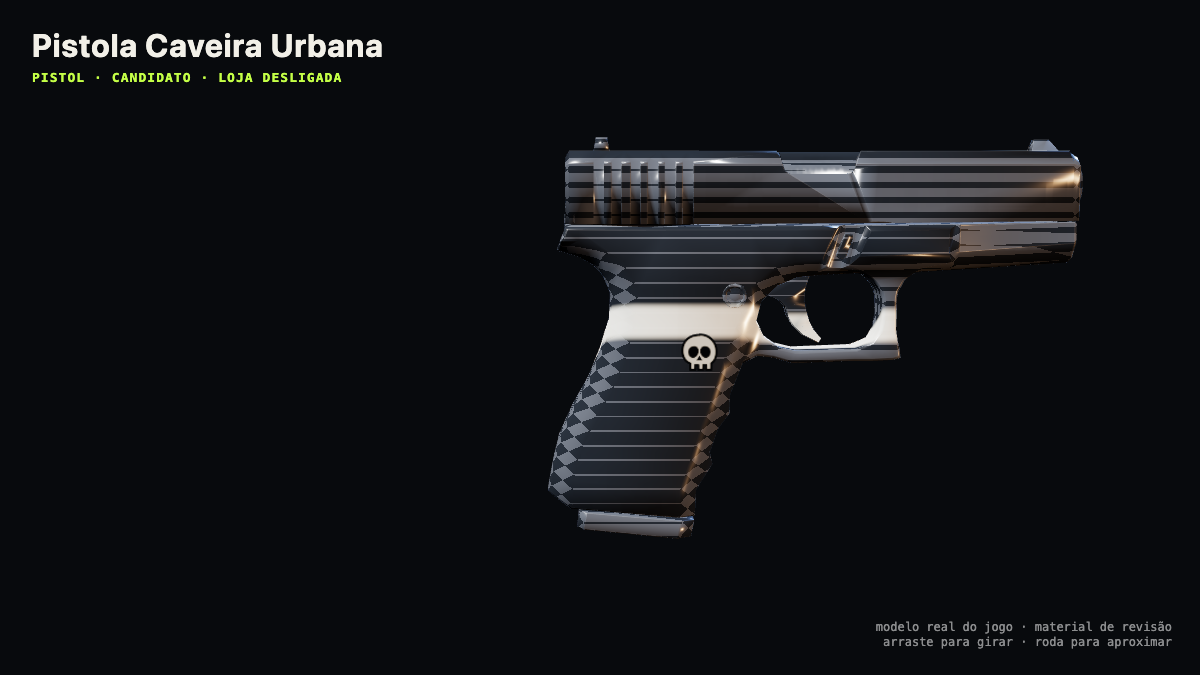
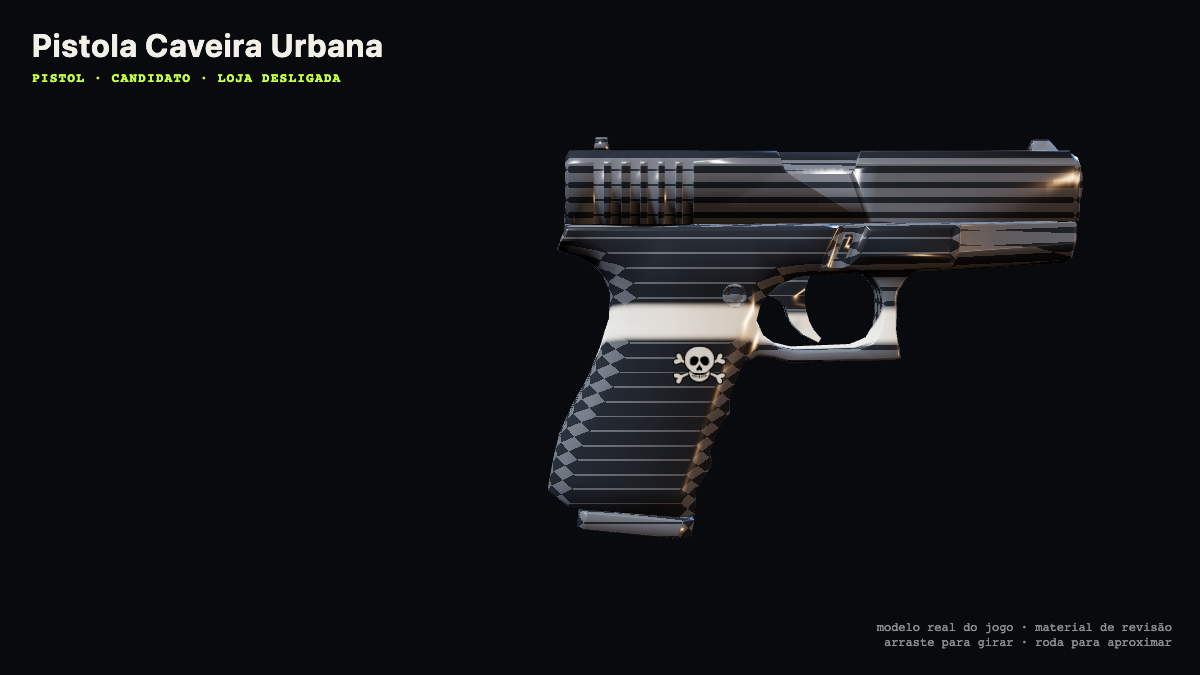
fix(cosmetics): align Caveira, Liberdade, and MAGA packs
Agent: GLM

Commit-grande: recaptura armas, luvas e posters dos três packs corrigidos

diff --git a/public/js/data/weapon-skin-definitions.js b/public/js/data/weapon-skin-definitions.js
@@ -35,10 +35,10 @@ const storeSkin = ({
 });
 
 const PACK_WEAPON_THEMES = Object.freeze([
-  { id: 'caveira-urbana', name: 'Caveira Urbana', theme: 'pack-caveira', color: '#d8d2c2', description: 'Carbono preto, osso marfim e caveira original.', markAsset: '/textures/weapon-skins/project-marks/caveira-urbana.svg' },
+  { id: 'caveira-urbana', name: 'Caveira Urbana', theme: 'pack-caveira', color: '#d8d2c2', description: 'Carbono preto e osso marfim com caveira e ossos cruzados.', markAsset: '/textures/weapon-skins/project-marks/caveira-urbana.svg', markLayouts: { ak: { y: 0.085, z: -0.050, height: 0.075, lift: 0.004 }, pistol: { y: -0.045, z: -0.015, height: 0.085 } } },
   { id: 'brasil-neon', name: 'Brasil Neon', theme: 'pack-brasil-neon', color: '#00d65c', description: 'Verde, amarelo e azul elétricos de alta leitura.' },
-  { id: 'liberdade-1776', name: 'Liberdade 1776', theme: 'pack-liberdade', color: '#b31942', description: 'Vermelho, branco e azul em faixas de aço.' },
-  { id: 'maga-47', name: 'MAGA 47', theme: 'pack-maga', color: '#d20a2e', description: 'Bandeira americana contida no corpo da arma sobre vermelho de campanha e aço preto.', markAsset: '/textures/weapon-skins/project-marks/usa-bandeira-grande.svg', markLayouts: { ak: { y: 0.095, z: -0.040, height: 0.060, lift: 0.004 }, pistol: { y: -0.040, z: -0.012, height: 0.070 } } },
+  { id: 'liberdade-1776', name: 'Liberdade 1776', theme: 'pack-liberdade', color: '#0a3161', description: 'Bandeira americana em vermelho, branco e azul sobre aço.', markAsset: '/textures/weapon-skins/project-marks/usa-bandeira-grande.svg', markLayouts: { ak: { y: 0.095, z: -0.040, height: 0.060, lift: 0.004 }, pistol: { y: -0.040, z: -0.012, height: 0.070 } } },
+  { id: 'maga-47', name: 'MAGA 47', theme: 'pack-maga', color: '#d20a2e', description: 'Vermelho de campanha com MAGA grande no cano e 47 no punho.', slogan: 'MAGA', markAsset: '/textures/weapon-skins/project-marks/maga-47.svg', markLayouts: { ak: { y: -0.015, z: -0.080, height: 0.034, lift: 0.004 }, pistol: { y: -0.095, z: -0.015, height: 0.085 } }, sloganLayouts: { ak: { y: 0.105, z: 0.220, height: 0.075, lift: 0.004 }, pistol: { y: 0.240, z: 0.080, height: 0.075 } }, sloganAspect: 4 },
   { id: 'emo-xadrez', name: 'Emo Xadrez', theme: 'pack-emo', color: '#f02cb8', description: 'Xadrez preto e magenta com uma caveira anatômica realista em traço de gravura.', markAsset: '/textures/weapon-skins/project-marks/emo-caveira-gravura.webp', markSourceUrl: 'https://commons.wikimedia.org/wiki/File:Holden%27s_human_osteology_(1899)_-_Plt18_Fig01.png', rightsStatus: 'public-domain', designOrigin: 'public-domain-adaptation', inspiration: 'adaptação monocromática do crânio anatômico de Luther Holden, publicado em 1887 e em domínio público', markLayouts: { ak: { y: 0.090, z: -0.055, height: 0.100, lift: 0.004 }, pistol: { y: -0.018, z: -0.015, height: 0.110 } } },
 ]);
 const PACK_WEAPON_SKINS = Object.freeze(Object.fromEntries(PACK_WEAPON_THEMES.flatMap((pack) =>
@@ -52,11 +52,14 @@ const PACK_WEAPON_SKINS = Object.freeze(Object.fromEntries(PACK_WEAPON_THEMES.fl
       theme: pack.theme,
       color: pack.color,
       description: pack.description,
+      slogan: pack.slogan || null,
       markAsset: pack.markAsset || null,
       markSourceUrl: pack.markSourceUrl || null,
       rightsStatus: pack.rightsStatus || 'original-safe',
       designOrigin: pack.designOrigin || 'project-owned',
       markLayout: pack.markLayouts?.[weapon] || null,
+      sloganLayout: pack.sloganLayouts?.[weapon] || null,
+      sloganAspect: pack.sloganAspect || null,
       price: 0,
       inspiration: pack.inspiration || 'conjunto original coordenado do projeto, sem marca de produto ou reprodução de item comercial',
       series: 'PACKS DA TRETA',

diff --git a/public/js/weapon-skins.js b/public/js/weapon-skins.js
@@ -175,19 +175,20 @@ const THEME_FRAGMENT = Object.freeze({
     diffuseColor.rgb = brasilNeonColor;
   `,
   'pack-liberdade': `
-    float liberdadeBand = fract((vWeaponSkinLocal.y + 0.40) * 7.0);
-    vec3 liberdadeStripe = liberdadeBand < 0.50 ? vec3(0.70, 0.018, 0.10) : vec3(0.94, 0.94, 0.91);
-    float liberdadeBlue = step(0.06, vWeaponSkinLocal.y) * step(vWeaponSkinLocal.z, 0.06);
-    diffuseColor.rgb = mix(liberdadeStripe, vec3(0.02, 0.12, 0.36), liberdadeBlue);
+    float liberdadeStripe = step(0.50, fract((vWeaponSkinLocal.y + 0.48) * 7.0));
+    vec3 liberdadeFlag = mix(vec3(0.70, 0.018, 0.10), vec3(0.96, 0.95, 0.91), liberdadeStripe);
+    float liberdadeCanton = step(0.015, vWeaponSkinLocal.y) * step(vWeaponSkinLocal.z, 0.08);
+    vec2 liberdadeStarCell = fract(vec2(vWeaponSkinLocal.z * 22.0, vWeaponSkinLocal.y * 24.0)) - 0.5;
+    float liberdadeStar = 1.0 - smoothstep(0.08, 0.16, length(liberdadeStarCell));
+    vec3 liberdadeBlue = mix(vec3(0.02, 0.08, 0.27), vec3(0.98), liberdadeStar);
+    diffuseColor.rgb = mix(liberdadeFlag, liberdadeBlue, liberdadeCanton);
   `,
   'pack-maga': `
-    float magaStripe = step(0.50, fract((vWeaponSkinLocal.y + 0.48) * 7.0));
-    vec3 magaFlag = mix(vec3(0.70, 0.018, 0.10), vec3(0.96, 0.95, 0.91), magaStripe);
-    float magaCanton = step(0.015, vWeaponSkinLocal.y) * step(vWeaponSkinLocal.z, 0.08);
-    vec2 magaStarCell = fract(vec2(vWeaponSkinLocal.z * 22.0, vWeaponSkinLocal.y * 24.0)) - 0.5;
-    float magaStar = 1.0 - smoothstep(0.08, 0.16, length(magaStarCell));
-    vec3 magaBlue = mix(vec3(0.02, 0.08, 0.27), vec3(0.98), magaStar);
-    diffuseColor.rgb = mix(magaFlag, magaBlue, magaCanton);
+    float magaGrain = 0.5 + 0.5 * sin(vWeaponSkinLocal.z * 47.0 + vWeaponSkinLocal.y * 19.0);
+    float magaPanel = smoothstep(0.34, 0.82, magaGrain);
+    vec3 magaRed = mix(vec3(0.34, 0.004, 0.012), vec3(0.82, 0.012, 0.028), magaPanel);
+    float magaEdge = smoothstep(0.10, 0.34, abs(vWeaponSkinLocal.y + 0.02));
+    diffuseColor.rgb = mix(magaRed, vec3(0.58, 0.006, 0.018), magaEdge * 0.28);
   `,
   'pack-emo': `
     vec2 emoCell = floor(vec2(vWeaponSkinLocal.z, vWeaponSkinLocal.y) * vec2(15.0, 15.0));
@@ -240,6 +241,7 @@ const SLOGAN_STYLE = Object.freeze({
   'brasil-22': Object.freeze({ fill: '#ffe13b', stroke: '#082c70' }),
   'brasil-cotidiano': Object.freeze({ fill: '#f5f6ec', stroke: '#0b4f92' }),
   tropicalente: Object.freeze({ fill: '#ffd94a', stroke: '#006f66' }),
+  'pack-maga': Object.freeze({ fill: '#fff4e8', stroke: '#4d000b' }),
 });
 
 const markTextures = new Map();

diff --git a/public/js/data/pack-definitions.js b/public/js/data/pack-definitions.js
@@ -23,7 +23,7 @@ export const TRETA_PACKS = Object.freeze([
     id: 'pack-caveira-urbana',
     name: 'Pack Caveira Urbana',
     color: '#d8d2c2',
-    description: 'Carbono preto e osso marfim: AK, pistola, luvas com caveira e faca coordenada.',
+    description: 'Carbono preto e osso marfim com a caveira e os ossos cruzados da referência.',
     ak: 'pack-caveira-urbana-ak',
     pistol: 'pack-caveira-urbana-pistol',
     glove: 'pack-caveira-gloves',
@@ -42,8 +42,8 @@ export const TRETA_PACKS = Object.freeze([
   pack({
     id: 'pack-liberdade-1776',
     name: 'Pack Liberdade 1776',
-    color: '#b31942',
-    description: 'Vermelho, branco e azul em faixas de aço para as quatro peças do conjunto.',
+    color: '#0a3161',
+    description: 'Bandeira americana em vermelho, branco e azul para as quatro peças do conjunto.',
     ak: 'pack-liberdade-1776-ak',
     pistol: 'pack-liberdade-1776-pistol',
     glove: 'pack-liberdade-gloves',
@@ -53,7 +53,7 @@ export const TRETA_PACKS = Object.freeze([
     id: 'pack-maga-47',
     name: 'Pack MAGA 47',
     color: '#d20a2e',
-    description: 'Bandeira americana contida no corpo da arma sobre vermelho de campanha em AK, pistola, luvas e faca.',
+    description: 'Vermelho de campanha com MAGA grande no cano e 47 no punho da arma.',
     ak: 'pack-maga-47-ak',
     pistol: 'pack-maga-47-pistol',
     glove: 'pack-maga-gloves',

diff --git a/public/js/data/glove-skin-definitions.js b/public/js/data/glove-skin-definitions.js
@@ -155,21 +155,21 @@ export const GLOVE_SKINS = Object.freeze({
   'pack-liberdade-gloves': gloveSkin({
     id: 'pack-liberdade-gloves',
     name: 'Luvas Liberdade 1776',
-    glove: '#b31942',
-    sleeve: '#0a3161',
+    glove: '#c8102e',
+    sleeve: '#580013',
     accent: '#ffffff',
-    motif: 'usa',
-    description: 'Faixas e estrelas em vermelho, branco e azul.',
+    motif: 'maga-flag',
+    description: 'Bandeira americana ampla em vermelho, branco e azul sobre cada mão.',
     storeEnabled: false,
   }),
   'pack-maga-gloves': gloveSkin({
     id: 'pack-maga-gloves',
     name: 'Luvas MAGA 47',
     glove: '#c8102e',
-    sleeve: '#580013',
+    sleeve: '#740019',
     accent: '#ffffff',
-    motif: 'maga-flag',
-    description: 'Vermelho intenso com uma bandeira americana grande sobre cada mão.',
+    motif: 'maga',
+    description: 'Vermelho de campanha com o número 47 branco sobre cada mão.',
     storeEnabled: false,
   }),
   'pack-emo-gloves': gloveSkin({

diff --git a/CHANGELOG.md b/CHANGELOG.md
@@ -29,7 +29,7 @@
 - A fábrica de wearables registra o boné procedural versionado e perfis candidatos por hash para Capitão, Esquerdomacho e Barbudo. A mesma régua importa os marcos e ajustes medidos dos óculos 33–36 para Capitão e Esquerdomacho, gera folhas frente/¾/perfil por pose e bloqueia qualquer par sem certificação humana; os itens 37/38 e a loja de acessórios continuam fechados.
 - A loja TRETA$ ganha vinte skins de arma para AK e pistola: oito políticas, quatro com expressões brasileiras sobre o corpo original, duas Camo Selva, duas Tropicalente, ouro por T$ 900 e prata por T$ 500. O armário equipa uma skin por arma; as mãos continuam visíveis segurando o modelo, e a tecla `I` mostra sua lateral completa durante a partida.
 - A loja TRETA$ ganha doze luvas de primeira pessoa por T$ 350, incluindo Emo Xadrez, Arquibancada, Bandeira do Brasil, Bandeira dos EUA e MAGA. Cada produto tem molde 3D isolado na loja e equipa a luva em todas as armas.
-- Cinco packs coordenados — Caveira Urbana, Brasil Neon, Liberdade 1776, MAGA 47 e Emo Xadrez — reúnem AK, pistola, luvas e faca por T$ 2.000 cada; a bandeira do MAGA fica contida no corpo da arma, e o Emo usa uma caveira anatômica em traço de gravura.
+- Cinco packs coordenados — Caveira Urbana, Brasil Neon, Liberdade 1776, MAGA 47 e Emo Xadrez — reúnem AK, pistola, luvas e faca por T$ 2.000 cada; Caveira usa o crânio com ossos cruzados da referência, Liberdade recebe o visual da bandeira americana, MAGA fica vermelho com “MAGA” no cano e “47” no punho, e Emo usa uma gravura anatômica.
 - A loja separa o catálogo nas abas Armas, Itens e Packs. O detalhe de arma informa a tecla `I` e reproduz uma demonstração da inspeção lateral.
 
 ### Alterado
